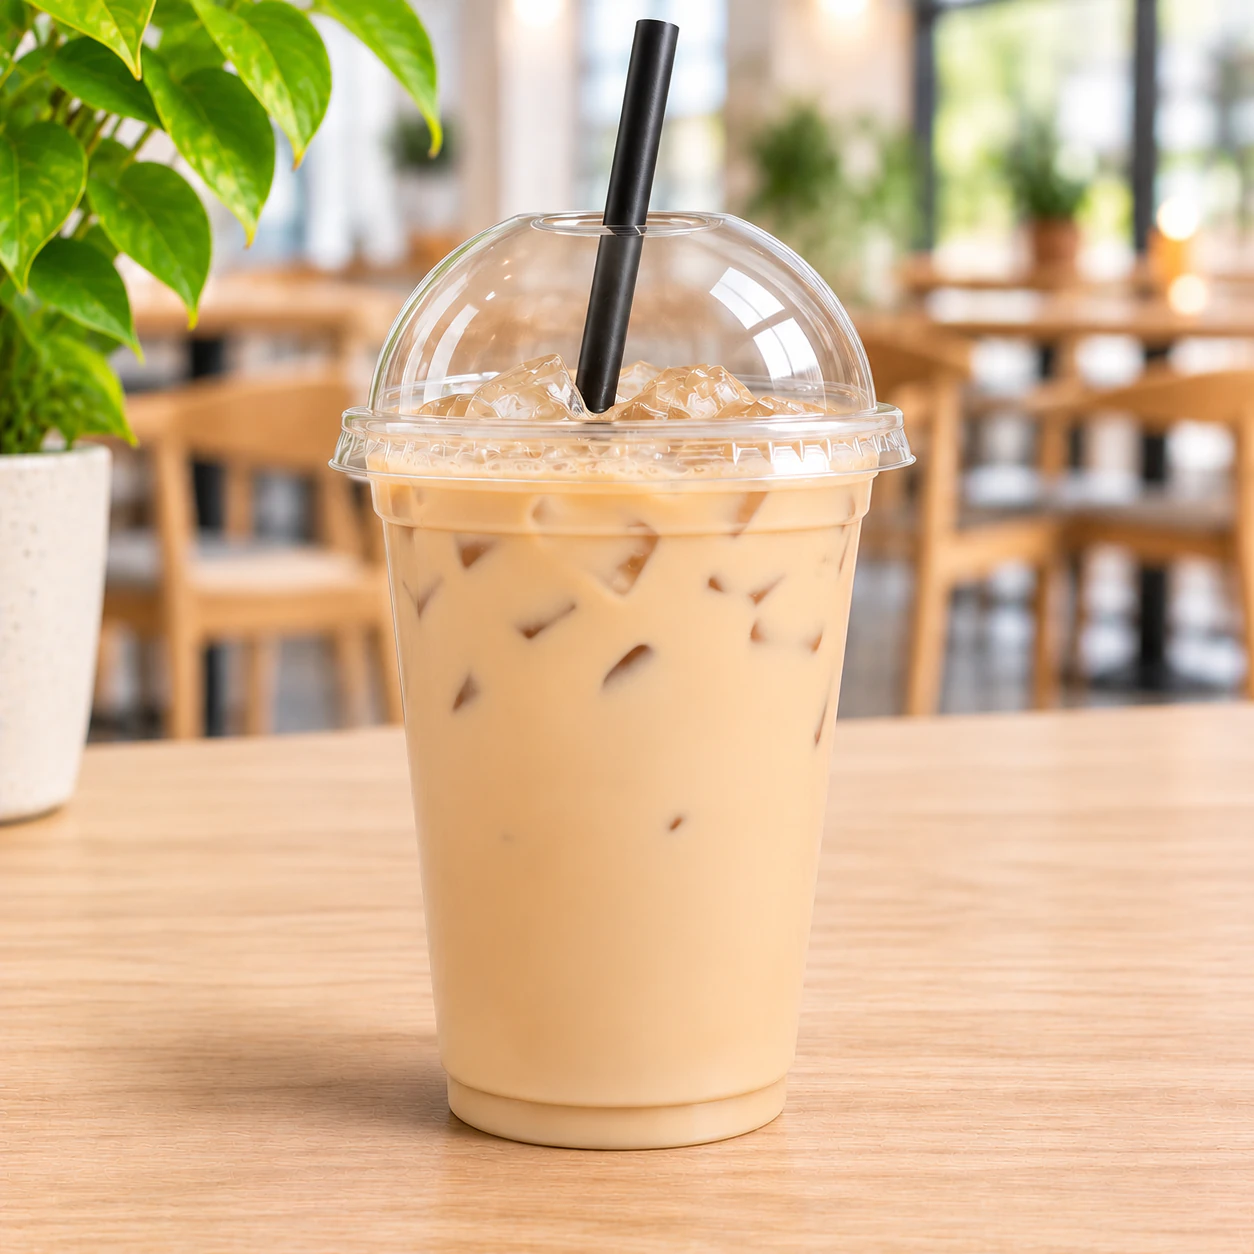
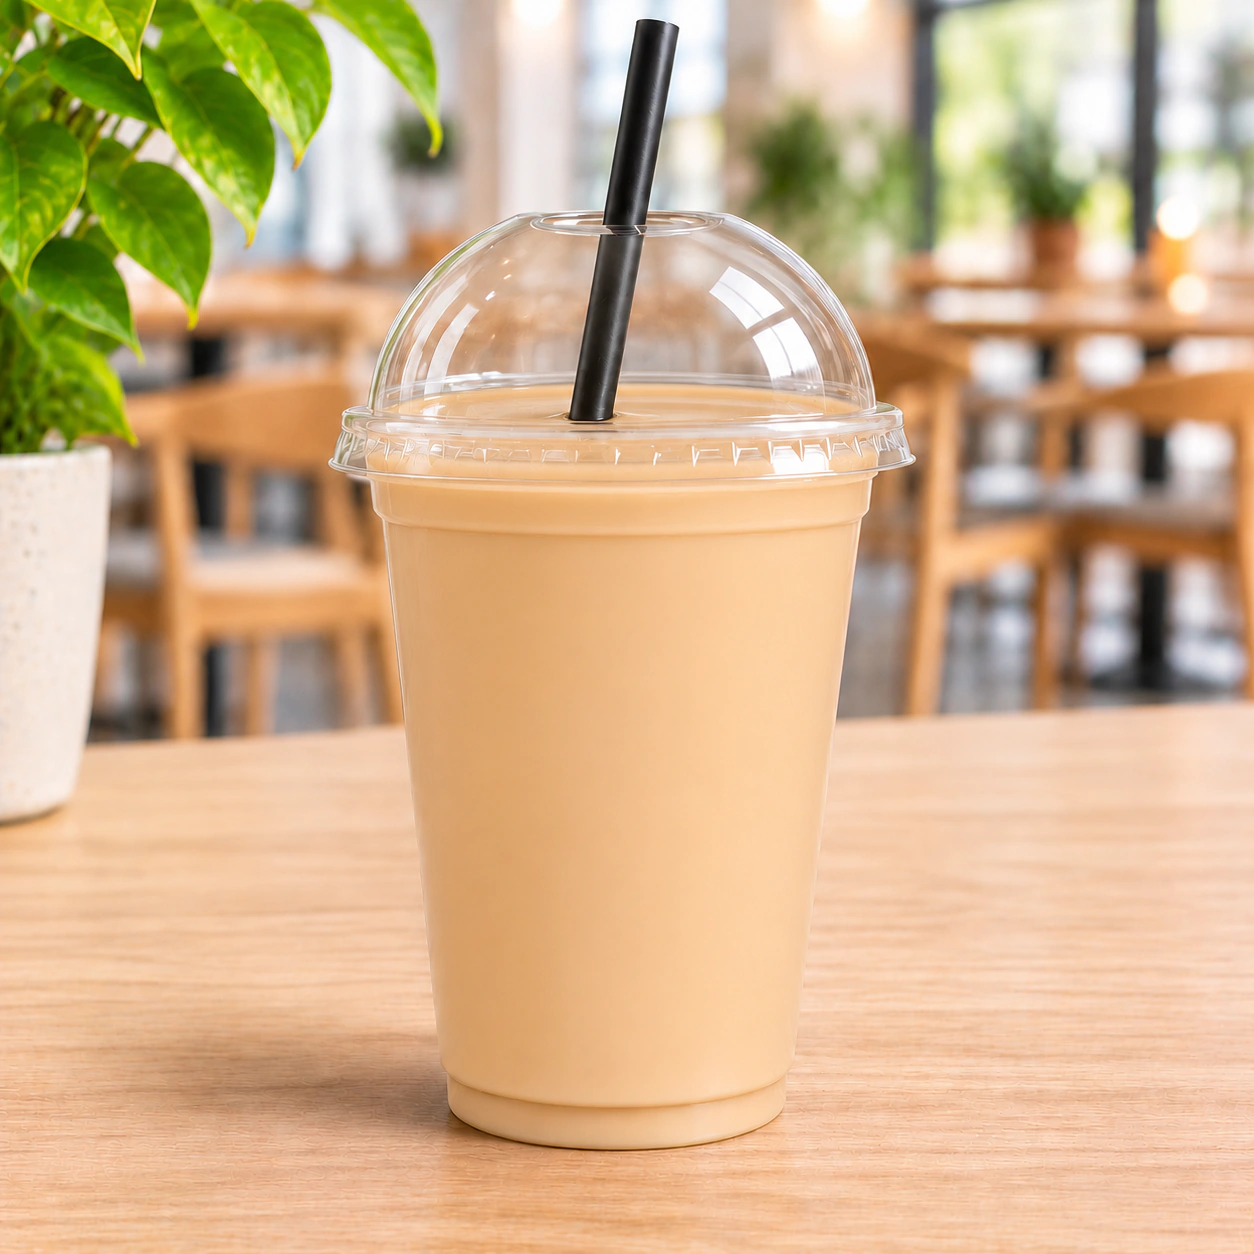
Assign no-ice mockup to clear cup

diff --git a/line art/app/lib/stamp-previews.server.ts b/line art/app/lib/stamp-previews.server.ts
@@ -14,7 +14,7 @@ import {
 export const stampPreviewKinds = ["bag", "cup", "box"] as const;
 export type StampPreviewKind = (typeof stampPreviewKinds)[number];
 
-const stampPreviewRenderer = "deterministic-v16-no-ice-clear-cup";
+const stampPreviewRenderer = "deterministic-v17-no-ice-clear-cup";
 
 const configureFal = () => {
   fal.config({ credentials: requireServerEnv("FAL_KEY") });
